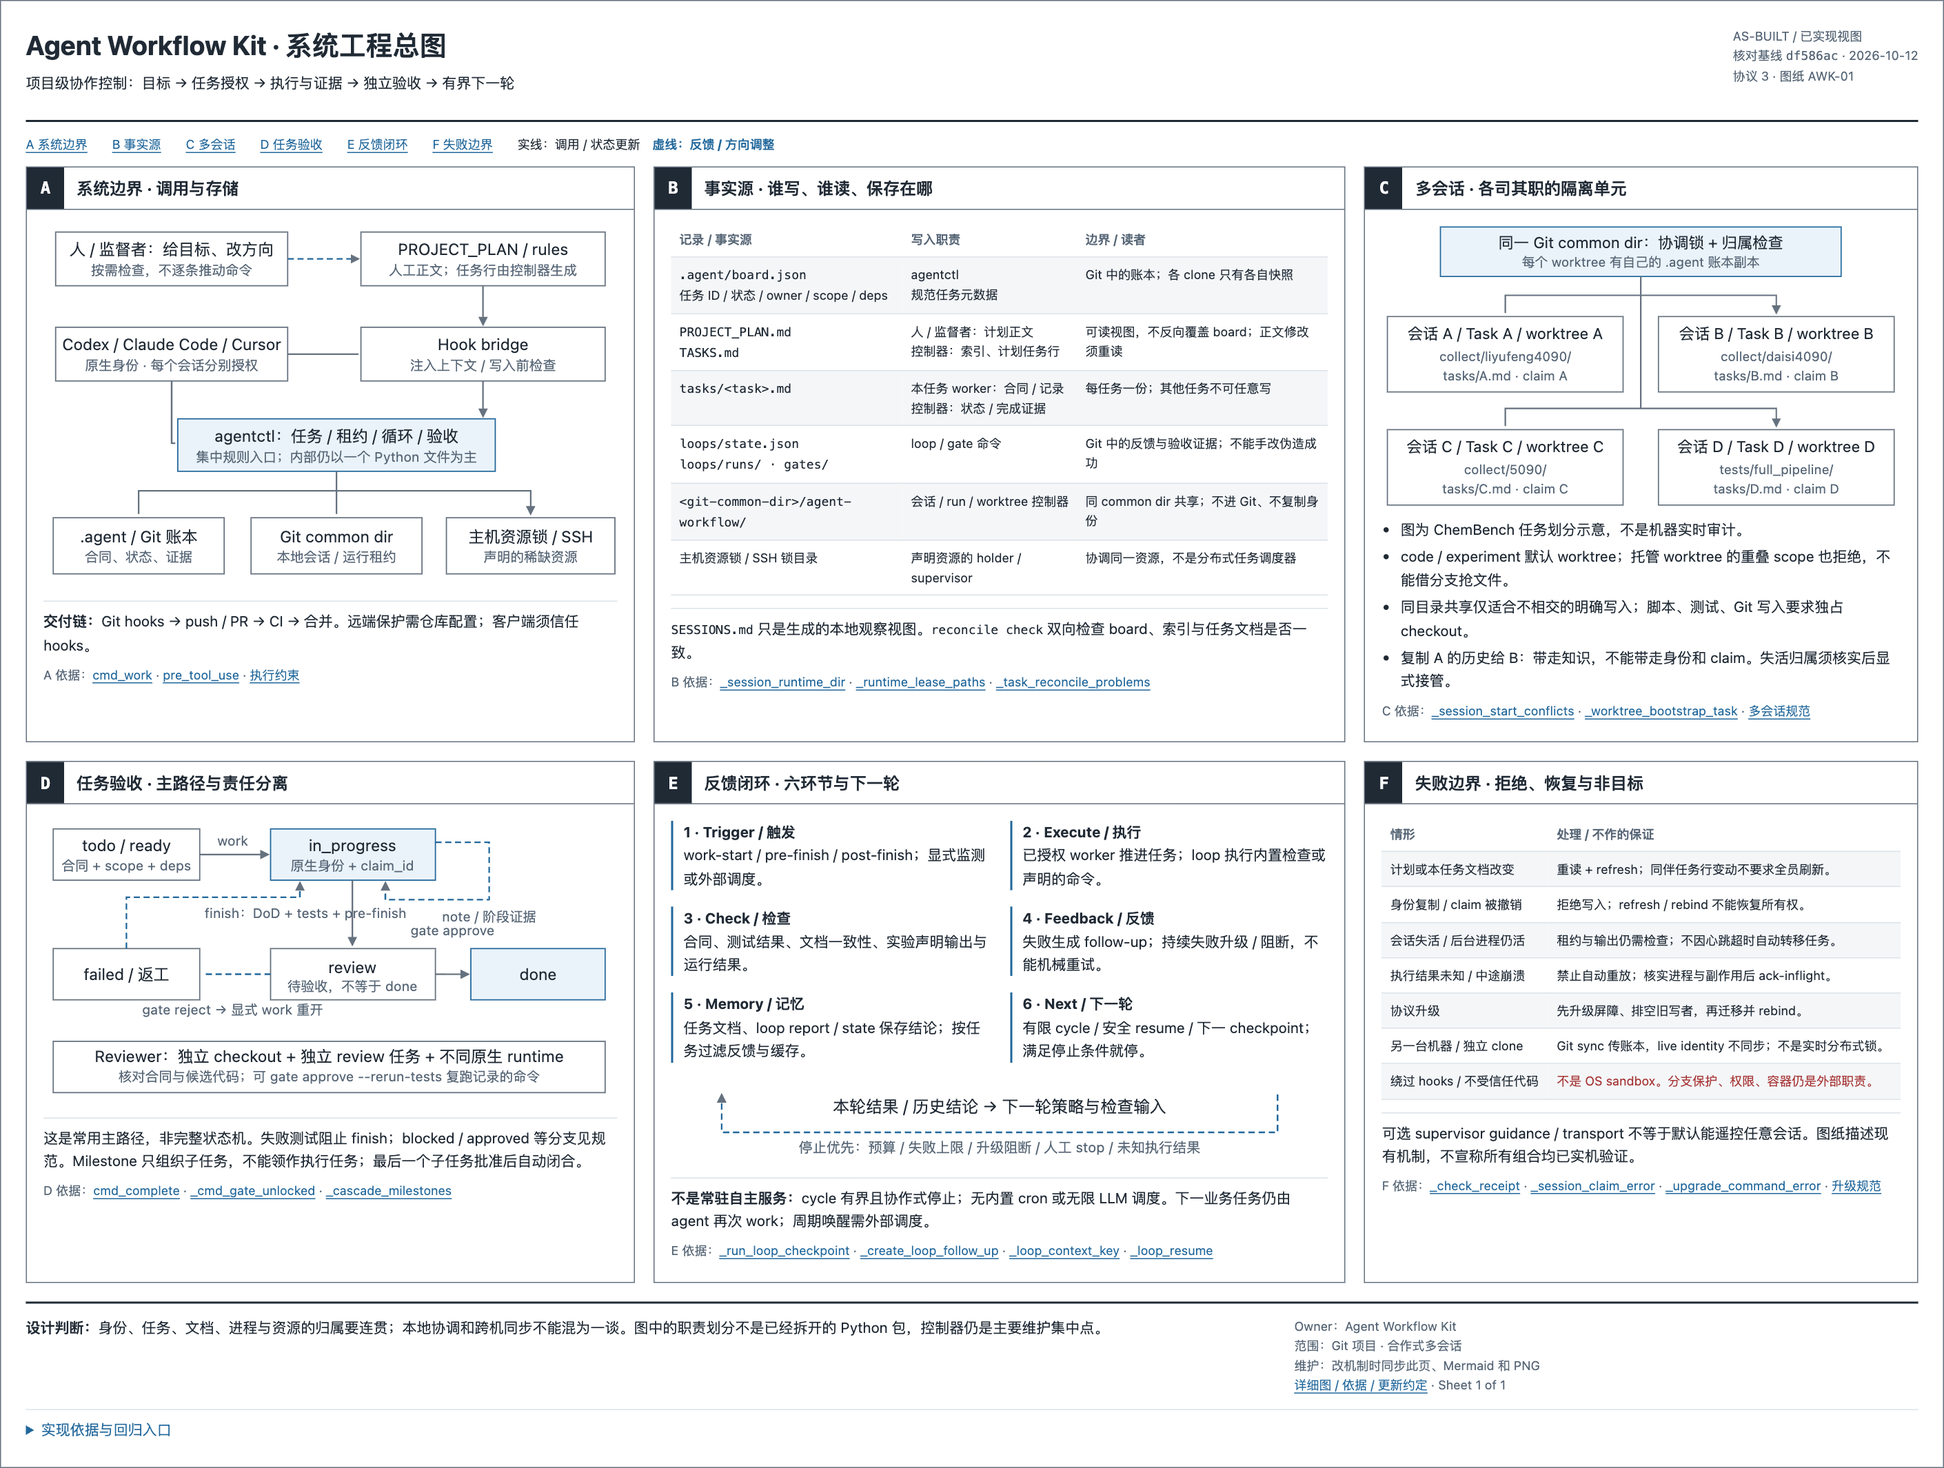
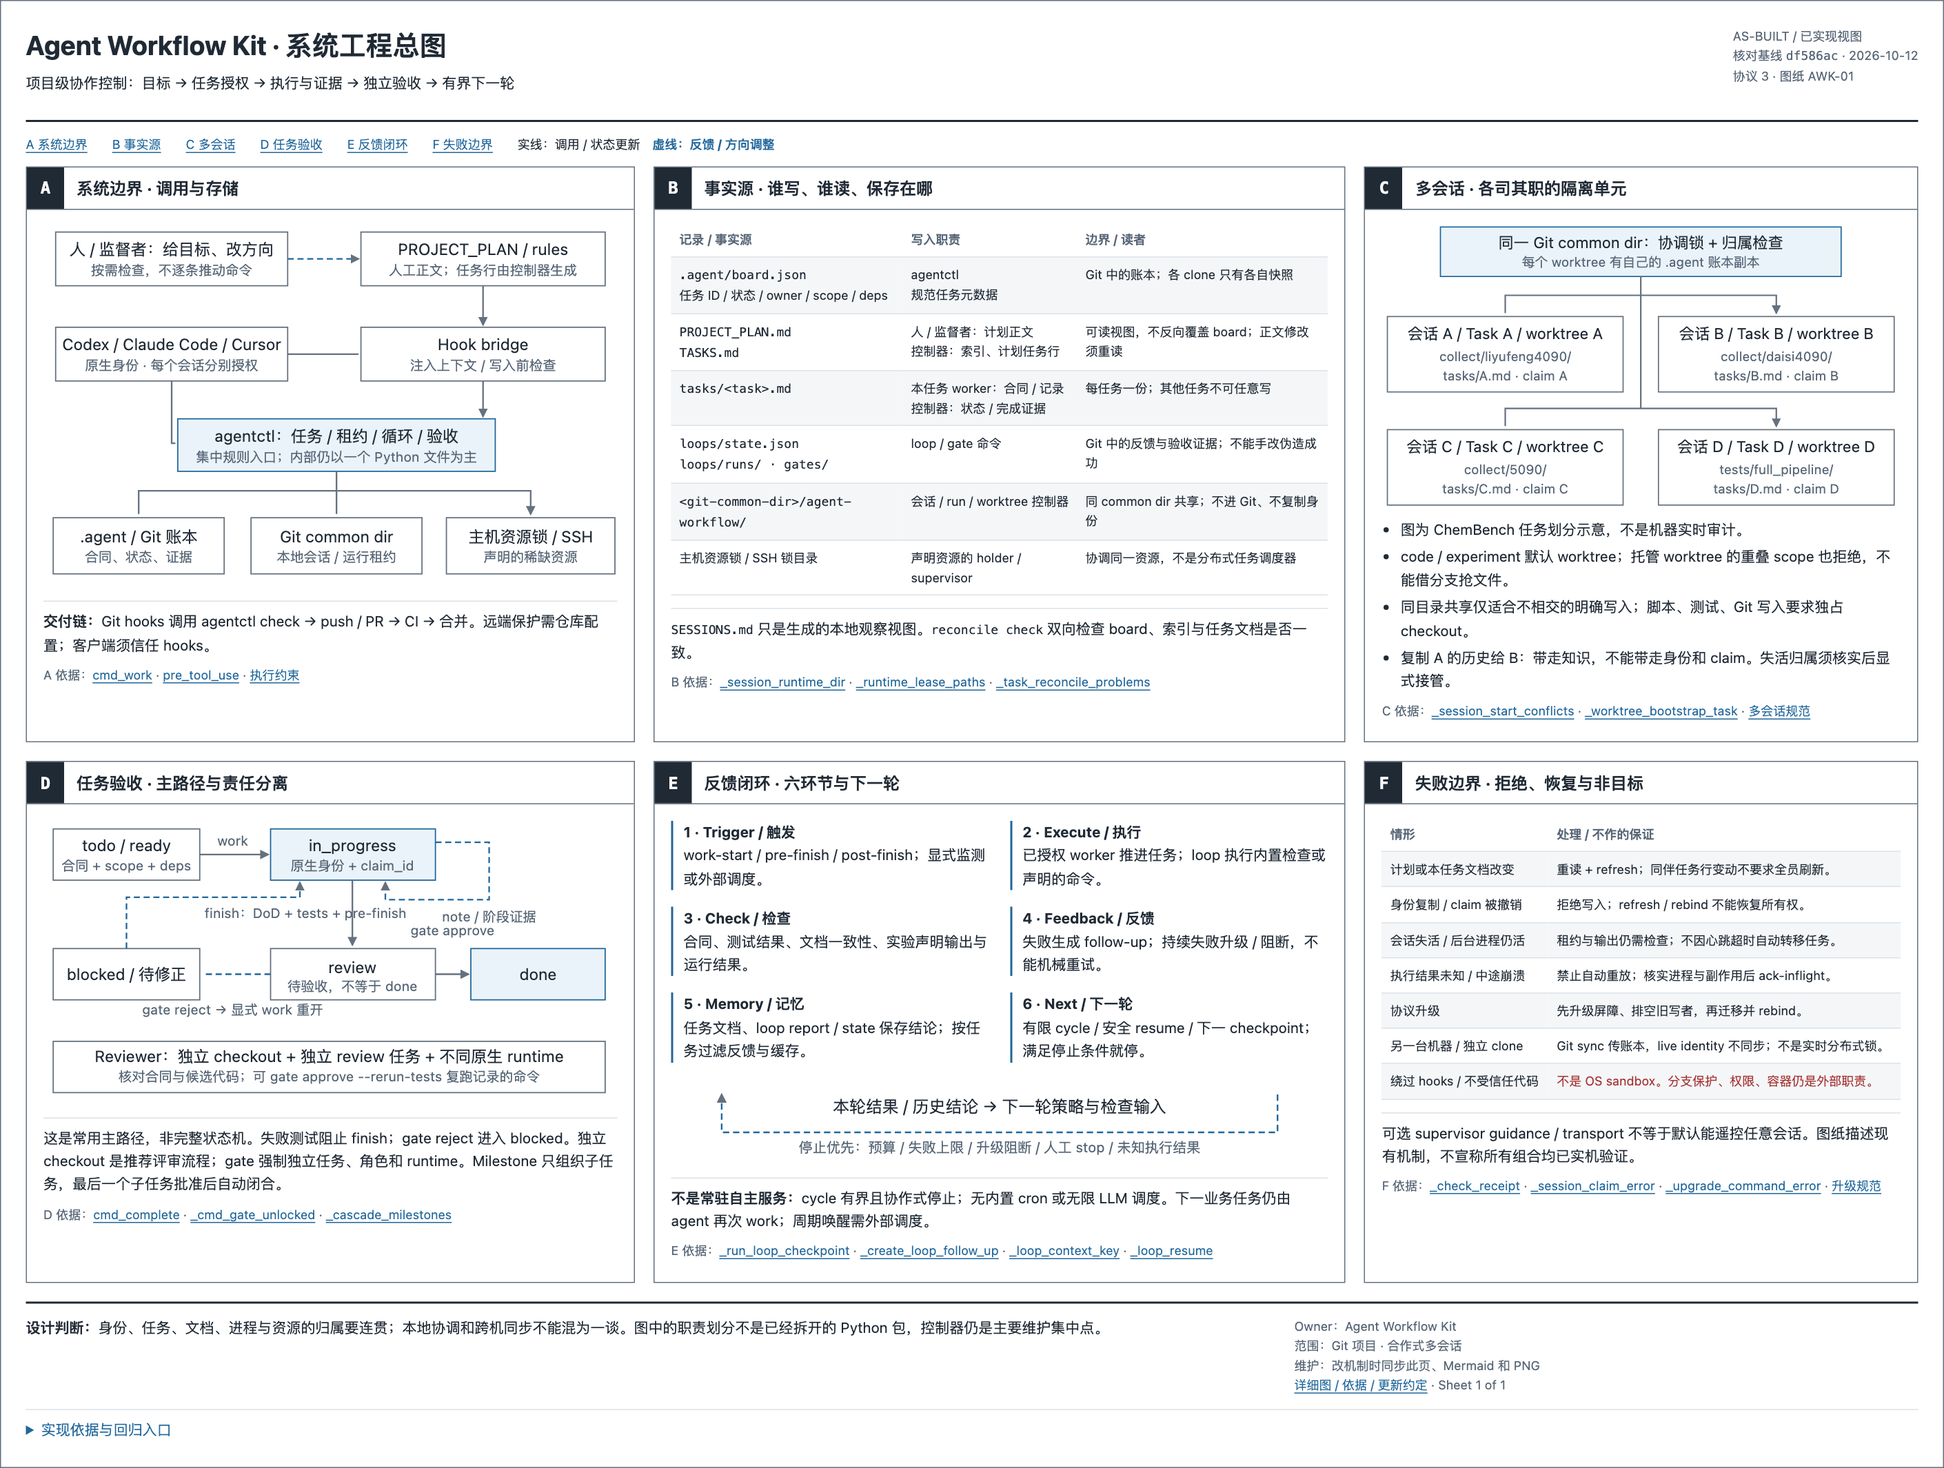
docs(architecture): align rejection state and hook direction
Refs: T16156EA9FCE985E5-001

Resolve independent review R1/R2 without changing runtime policy.

diff --git a/docs/architecture/system-sheet.html b/docs/architecture/system-sheet.html
@@ -92,7 +92,7 @@
           <rect class="node" x="170" y="242" width="140" height="46"/><text x="240" y="262" text-anchor="middle">Git common dir</text><text class="small" x="240" y="278" text-anchor="middle">本地会话 / 运行租约</text>
           <rect class="node" x="330" y="242" width="138" height="46"/><text x="399" y="262" text-anchor="middle">主机资源锁 / SSH</text><text class="small" x="399" y="278" text-anchor="middle">声明的稀缺资源</text>
         </svg></div>
-        <p class="note"><strong>交付链：</strong>Git hooks → push / PR → CI → 合并。远端保护需仓库配置；客户端须信任 hooks。</p>
+        <p class="note"><strong>交付链：</strong>Git hooks 调用 agentctl check → push / PR → CI → 合并。远端保护需仓库配置；客户端须信任 hooks。</p>
         <p class="muted">A 依据：<a href="../../tools/agentctl.py" data-symbol="cmd_work">cmd_work</a> · <a href="../../tools/agent_workflow_hook.py" data-symbol="pre_tool_use">pre_tool_use</a> · <a href="../enforcement.md">执行约束</a></p>
       </div>
     </section>
@@ -149,12 +149,12 @@
           <rect class="primary" x="350" y="108" width="110" height="42"/><text x="405" y="134" text-anchor="middle">done</text>
           <path class="line" d="M321 129H348" marker-end="url(#arrow-d)"/>
           <text class="small" x="335" y="97" text-anchor="middle">gate approve</text>
-          <rect class="node" x="8" y="108" width="120" height="42"/><text x="68" y="134" text-anchor="middle">failed / 返工</text>
+          <rect class="node" x="8" y="108" width="120" height="42"/><text x="68" y="134" text-anchor="middle">blocked / 待修正</text>
           <path class="feedback" d="M186 129H130M68 108V66H210V54" marker-end="url(#arrow-d)"/>
           <text class="small" x="155" y="162" text-anchor="middle">gate reject → 显式 work 重开</text>
           <rect class="node" x="8" y="184" width="452" height="42"/><text x="234" y="201" text-anchor="middle">Reviewer：独立 checkout + 独立 review 任务 + 不同原生 runtime</text><text class="small" x="234" y="217" text-anchor="middle">核对合同与候选代码；可 gate approve --rerun-tests 复跑记录的命令</text>
         </svg></div>
-        <p class="note">这是常用主路径，非完整状态机。失败测试阻止 finish；blocked / approved 等分支见规范。Milestone 只组织子任务，不能领作执行任务；最后一个子任务批准后自动闭合。</p>
+        <p class="note">这是常用主路径，非完整状态机。失败测试阻止 finish；gate reject 进入 blocked。独立 checkout 是推荐评审流程；gate 强制独立任务、角色和 runtime。Milestone 只组织子任务，最后一个子任务批准后自动闭合。</p>
         <p class="muted">D 依据：<a href="../../tools/agentctl.py" data-symbol="cmd_complete">cmd_complete</a> · <a href="../../tools/agentctl.py" data-symbol="_cmd_gate_unlocked">_cmd_gate_unlocked</a> · <a href="../../tools/agentctl.py" data-symbol="_cascade_milestones">_cascade_milestones</a></p>
       </div>
     </section>

diff --git a/.agent/tasks/T16156EA9FCE985E5-001.md b/.agent/tasks/T16156EA9FCE985E5-001.md
@@ -1,6 +1,6 @@
 # T16156EA9FCE985E5-001 - Publish traceable engineering architecture diagrams
 
-Status: blocked
+Status: review
 Owner: codex
 Agent: codex
 Created: 2026-10-12 21:10:07
@@ -20,10 +20,10 @@ The reviewer judges the work against this section, so fill it before the work
 starts (`--goal`, `--done`, `--tests-cmd` on `work --auto-create`, or
 `agentctl contract`). `finish` refuses while Definition of Done is empty.
 
-- Goal:
-- Non-Goals:
-- Dependencies:
-- Expected Deliverables:
+- Goal: Make the implemented collaboration architecture inspectable from one engineering sheet, with traceable source and explicit limits.
+- Non-Goals: Runtime-policy changes, a new scheduler or diagram state database, a live ChemBench machine audit.
+- Dependencies: Independent native source review and exact-head remote CI before publication to main.
+- Expected Deliverables: docs/architecture/README.md, offline HTML and PNG engineering sheet, reference checks and README entry.
 - Definition of Done: Engineering sheet and GitHub-readable architecture diagrams explain actual boundaries, loop, ownership and lifecycle; all source links resolve; desktop/mobile diagrams are readable; independent reviewer finds no material mismatch
 
 ## Context To Read Before Starting
@@ -44,11 +44,12 @@ starts (`--goal`, `--done`, `--tests-cmd` on `work --auto-create`, or
 
 Use one checkbox per stage. Do not delete completed stages; append changed or new stages with a short reason.
 
-- [ ] Stage 1:
-- [ ] Stage 2:
-- [ ] Stage 3:
+- [x] Stage 1: Inspect current controller, hooks, ownership and loop boundaries at df586ac.
+- [x] Stage 2: Draw six-panel HTML/PNG plus Mermaid; validate references and desktop/mobile rendering.
+- [x] Stage 3: Correct R1/R2 and rerun diagram checks; independent acceptance and publication are tracked by the review task and PR #70.
 
 ## Stage Log
+- 2026-10-12 21:32:35 Independent rejection a00130d imported; explicit own-task work reopened blocked task. R1 corrected reject -> blocked; R2 corrected Git hooks -> agentctl check. Separate checkout caption clarified as recommended workflow, while distinct task/role/native runtime is enforced. Redraw, rerender and re-review required; no controller behavior changed.
 - 2026-10-12 21:19:56 Six-panel HTML/Mermaid diagrams grounded in df586ac. Four stdlib reference/structure checks pass; first browser pass caught SVG footer clipping, fixed viewBox. Source-symbol existence is not semantic correctness; independent source review and visual recheck remain required.
 - 2026-10-12 21:11:30 Architecture documentation only: compare actual claim/worktree/loop/gate source, publish six-panel engineering sheet plus Mermaid and source links. No runtime-policy changes. README_CN.md is outside immutable lease; leave it unchanged.
 
@@ -67,11 +68,11 @@ Format: `- YYYY-MM-DD HH:MM:SS <short factual update>`.
 
 ## Completion Record
 
-- Summary: Publish source-traceable six-panel engineering sheet, editable Mermaid architecture and lightweight reference checks. Chrome widths 2000/1024/390 verified: zero page overflow, zero SVG text outside bounds; navigation and evidence disclosure work. Runtime policies/dependencies unchanged.
+- Summary: Correct independent R1 reject state to blocked and R2 hook call direction; clarify independent-checkout recommendation versus enforced runtime/task/role checks. Regenerate PNG; corrected HTML layouts at 2000/1024/390 and all four browser Mermaid renders pass; Canvas strict SDK TypeScript passes. Core runtime byte-identical to df586ac.
 - Tests: OK
 - Tests-command: python3 -m unittest tests.test_architecture_docs -v
 - Tests-exit: 0
-- Tests-duration: 1.8s
+- Tests-duration: 1.9s
 - Worker-runtimes: host-runtime:39690e41e8f8a0164e906a910b0616e7
-- Completed-at: 2026-10-12 21:20:26
-- Completed-at-ns: 1791811226235334000
+- Completed-at: 2026-10-12 21:34:33
+- Completed-at-ns: 1791812073761983000

diff --git a/.agent/logs/progress.md b/.agent/logs/progress.md
@@ -368,3 +368,4 @@ Append-only human-readable progress log. Use task docs for durable task facts.
 - 2026-10-12 21:25:17 [T98255863DC3EEDAE-001] Bootstrap and required checks: independent --no-local clone HEAD 3d6c545ebf7d13837aae4a80296200dc3e2a7dba; base df586ac032d2874d32065884aca816c2376e87e6. Reviewer native host-runtime:da51df15ea4627ad51477b6cce711b8a differs from worker host-runtime:39690e41e8f8a0164e906a910b0616e7; no AGENT_WORKFLOW overrides. New architecture unittest 4/4, manual check, py_compile and diff --check exit0. tools/templates/hooks/workflow rules/eval policies byte-identical. Desktop PNG inspected with view_image. Tests are reference/structure evidence only. Source confirms blocker: README diagram L114 and HTML D L152-154 say reject -> failed, actual agentctl L5179 sets blocked; no candidate edits or approval.
 - 2026-10-12 21:26:59 [T98255863DC3EEDAE-001] Semantic review complete: R1 exact implementation reference is tools/agentctl.py:5137-5154 (corrects provisional L5179 in prior note): gate reject writes blocked, not failed shown by docs/architecture/README.md:114 and system-sheet.html:152-154 plus PNG D. R2 docs/architecture/README.md:36 reverses checks: .githooks/pre-commit:12 and pre-push:36 invoke agentctl check, not controller -> Local Git hooks. Separate checkout caption treated as recommended usual code-review path, not an additional enforced gate rule. Review task contract clarified to require a justified verdict, not a successful candidate. Supplemental mobile/Mermaid evidence is worker-supplied; mobile D image independently viewed and readable using local horizontal scrolling.
 - 2026-10-12 21:29:11 [T98255863DC3EEDAE-001] Independent gate reject succeeded with distinct native-runtime proof and returned rejected -> blocked, directly reproducing R1 without fixtures or worker claim. Controller alone updated worker status to blocked; candidate content and completion evidence unchanged. Source review found only R1/R2 in authorized scope; separate-checkout usual-path nuance is not an extra enforced gate assertion. Own final evidence records dimensions, exact repairs, traceability-only test limits and parent-owned CI. Prepare normal-hook .agent ledger-only delivery; no signed eval/runtime policy change, remote push or merge.
+- 2026-10-12 21:32:35 [T16156EA9FCE985E5-001] Independent rejection a00130d imported; explicit own-task work reopened blocked task. R1 corrected reject -> blocked; R2 corrected Git hooks -> agentctl check. Separate checkout caption clarified as recommended workflow, while distinct task/role/native runtime is enforced. Redraw, rerender and re-review required; no controller behavior changed.

diff --git a/docs/architecture/README.md b/docs/architecture/README.md
@@ -33,7 +33,8 @@ flowchart TB
     Controller -->|contract and evidence| Docs[Own task document / gates / loop reports]
     Controller -->|local authority| Runtime[Git common dir: sessions and leases]
     Controller -->|resource ownership| Locks[Host or SSH resource locks]
-    Controller -->|checks| Git[Local Git hooks]
+    Agent -->|commit / push| Git[Local Git hooks]
+    Git -->|agentctl check| Controller
     Git -->|push / PR| CI[GitHub CI and branch protection]
 ```
 
@@ -100,7 +101,7 @@ Source: `_session_start_conflicts`, `_worktree_bootstrap_task`,
 ## 3. Delivery And Independent Acceptance
 
 This is the **usual path**, not the entire status transition graph. The vocabulary
-also includes `blocked` and `approved`.
+also includes `failed` and `approved`.
 
 ```mermaid
 flowchart LR
@@ -111,15 +112,18 @@ flowchart LR
     Reviewer[Separate review task and independent native runtime] --> Gate[gate decision]
     Review --> Gate
     Gate -->|approve| Done[done]
-    Gate -->|reject| Failed[failed]
-    Failed -->|explicit work restart| Work
+    Gate -->|reject| Blocked[blocked]
+    Blocked -->|explicit work restart| Work
     Done --> Children[All milestone children done]
     Children --> Closed[Controller closes planning-only milestone]
 ```
 
 The reviewer inspects the **actual frozen candidate code**, not just an imported
-ledger. A separate checkout and native runtime prevents the worker approving
-itself. `gate approve --rerun-tests` reruns the recorded test command; the option
+ledger. A separate checkout is the recommended safe review workflow; the gate
+specifically enforces a distinct active review task, reviewer role and native
+runtime that did not work the candidate. It is not a universal separate-checkout
+check for all shared-document workflows. Rejection sets `blocked`, not `failed`.
+`gate approve --rerun-tests` reruns the recorded test command; the option
 is available, not silently mandatory for every approval. Worker `finish` cannot
 turn failing tests into a review-ready result. An independent gate still needs
 semantic evidence; exit 0 alone is not proof of the user's goal.

diff --git a/.agent/TASKS.md b/.agent/TASKS.md
@@ -58,5 +58,5 @@
 | T2A8C900D6DFB5577-001 | done | independent-reopen-reviewer-01a129ca | `.agent/gates/` | [.agent/tasks/T2A8C900D6DFB5577-001.md](tasks/T2A8C900D6DFB5577-001.md) | Independent frozen reopen review 1e4b073 |
 | T8ED1CBB4E9C30D6A-001 | done | codex | `README.md, README_CN.md, docs/install-and-upgrade.md, tests/test_readme_workflow.py, .github/workflows/agent-workflow-check.yml, CHANGELOG.md` | [.agent/tasks/T8ED1CBB4E9C30D6A-001.md](tasks/T8ED1CBB4E9C30D6A-001.md) | Keep bilingual onboarding examples executable and coordination claims scoped |
 | TE8072A0FEC7CC742-001 | done | independent-onboarding-reviewer-01a12a08 | `.agent/gates/` | [.agent/tasks/TE8072A0FEC7CC742-001.md](tasks/TE8072A0FEC7CC742-001.md) | Independent frozen onboarding review 8e244fa |
-| T16156EA9FCE985E5-001 | blocked | codex | `docs/architecture/, README.md, README.zh-CN.md, CHANGELOG.md, tests/test_architecture_docs.py` | [.agent/tasks/T16156EA9FCE985E5-001.md](tasks/T16156EA9FCE985E5-001.md) | Publish traceable engineering architecture diagrams |
+| T16156EA9FCE985E5-001 | review | codex | `docs/architecture/, README.md, README.zh-CN.md, CHANGELOG.md, tests/test_architecture_docs.py` | [.agent/tasks/T16156EA9FCE985E5-001.md](tasks/T16156EA9FCE985E5-001.md) | Publish traceable engineering architecture diagrams |
 | T98255863DC3EEDAE-001 | done | independent-architecture-reviewer-3d6c545-native | `.agent/gates/` | [.agent/tasks/T98255863DC3EEDAE-001.md](tasks/T98255863DC3EEDAE-001.md) | Independent frozen architecture review 3d6c545 |

diff --git a/.agent/loops/runs/20261012-213151-daily-plan-triage-950377.md b/.agent/loops/runs/20261012-213151-daily-plan-triage-950377.md
@@ -1,0 +1,36 @@
+# Loop Run
+
+- Loop: daily-plan-triage
+- Trigger: checkpoint:work-start:work-start
+- Agent: codex
+- Task: T16156EA9FCE985E5-001
+- Started: 2026-10-12 21:31:51
+- Finished: 2026-10-12 21:31:51
+- Status: success
+- Previous: success at 2026-10-12 21:10:35 (.agent/loops/runs/20261012-211035-daily-plan-triage-950377.md)
+
+## Read
+- .agent/PROJECT_PLAN.md
+- .agent/TASKS.md
+- .agent/board.json
+- .agent/tasks/*.md
+- .agent/bus/inbox/ (loop follow-ups)
+
+## Actions
+- Compared board state, task index rows, task docs, and plan checkboxes.
+- Scanned the bus inbox for open loop follow-up packets.
+
+## Checks
+- No plan/task/board inconsistencies found.
+
+## Feedback
+- T16156EA9FCE985E5-001: currently in progress; keep notes current
+- T6610CD0566A2EF36-002: awaiting review gate
+- T9F94C43755189F1F-001: awaiting review gate
+
+## Memory Updates
+- Wrote this loop run report.
+- Updated .agent/loops/state.json.
+
+## Next
+- Plan, task index, and board are consistent enough for the next loop.

diff --git a/.agent/loops/runs/20261012-213433-doc-hygiene-950377-2.md b/.agent/loops/runs/20261012-213433-doc-hygiene-950377-2.md
@@ -1,0 +1,34 @@
+# Loop Run
+
+- Loop: doc-hygiene
+- Trigger: checkpoint:post-finish:post-finish
+- Agent: codex
+- Task: T16156EA9FCE985E5-001
+- Started: 2026-10-12 21:34:33
+- Finished: 2026-10-12 21:34:33
+- Status: success
+- Previous: success at 2026-10-12 21:34:33 (.agent/loops/runs/20261012-213433-doc-hygiene-950377.md)
+
+## Read
+- .agent/tasks/T16156EA9FCE985E5-001.md
+- .agent/PROJECT_PLAN.md
+- .agent/TASKS.md
+- .agent/WORKFLOW_ENTRY.md
+
+## Actions
+- Checked task document schema, duplicate stage log entries, and required workflow docs.
+
+## Checks
+- No document hygiene issues found in task docs.
+
+## Feedback
+- .agent/PROJECT_PLAN.md: present
+- .agent/TASKS.md: present
+- .agent/WORKFLOW_ENTRY.md: present
+
+## Memory Updates
+- Wrote this loop run report.
+- Updated .agent/loops/state.json.
+
+## Next
+- No doc cleanup is required before the next loop.

diff --git a/.agent/loops/runs/20261012-213433-doc-hygiene-950377.md b/.agent/loops/runs/20261012-213433-doc-hygiene-950377.md
@@ -1,0 +1,34 @@
+# Loop Run
+
+- Loop: doc-hygiene
+- Trigger: checkpoint:pre-finish:pre-finish
+- Agent: codex
+- Task: T16156EA9FCE985E5-001
+- Started: 2026-10-12 21:34:33
+- Finished: 2026-10-12 21:34:33
+- Status: success
+- Previous: success at 2026-10-12 21:20:26 (.agent/loops/runs/20261012-212026-doc-hygiene-950377.md)
+
+## Read
+- .agent/tasks/T16156EA9FCE985E5-001.md
+- .agent/PROJECT_PLAN.md
+- .agent/TASKS.md
+- .agent/WORKFLOW_ENTRY.md
+
+## Actions
+- Checked task document schema, duplicate stage log entries, and required workflow docs.
+
+## Checks
+- No document hygiene issues found in task docs.
+
+## Feedback
+- .agent/PROJECT_PLAN.md: present
+- .agent/TASKS.md: present
+- .agent/WORKFLOW_ENTRY.md: present
+
+## Memory Updates
+- Wrote this loop run report.
+- Updated .agent/loops/state.json.
+
+## Next
+- No doc cleanup is required before the next loop.
